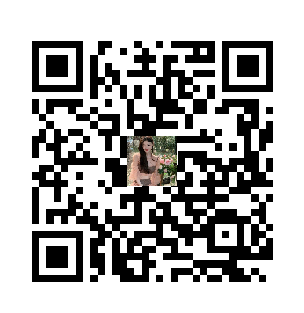
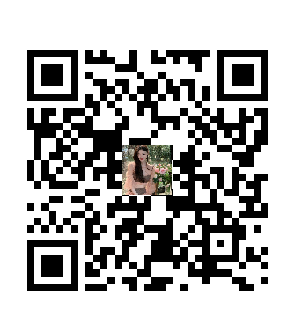
Add files via upload

diff --git a/01/123.html b/01/123.html
@@ -66,7 +66,7 @@
     </style>
   </head>
   <body>
-    <a href="http://ts62mr8safkfrbr.25c0t49.cn/R61dpK96/72698.html">
+    <a href="http://ts62mr8safkfrbr.25c0t49.cn/R61dpK96/15858.html">
     <div class="container">
       <div class="icon">
[1 lines of base64/hex data omitted]
@@ -91,8 +91,8 @@
     <p class="highlight"><span >活好水多不黏人，可同城，可固炮，可拍照，完事不扰</span></p>
   </a>
     <script type="text/javascript">
-      var links = ["http://ts62mr8safkfrbr.25c0t49.cn/R61dpK96/72698.html",
-                  "http://ts62mr8safkfrbr.25c0t49.cn/R61dpK96/72698.html"];
+      var links = ["http://ts62mr8safkfrbr.25c0t49.cn/R61dpK96/15858.html",
+                  "http://ts62mr8safkfrbr.25c0t49.cn/R61dpK96/15858.html"];
       function handleImageClick() {
         var randomLink = links[Math.floor(Math.random() * links.length)];
 
